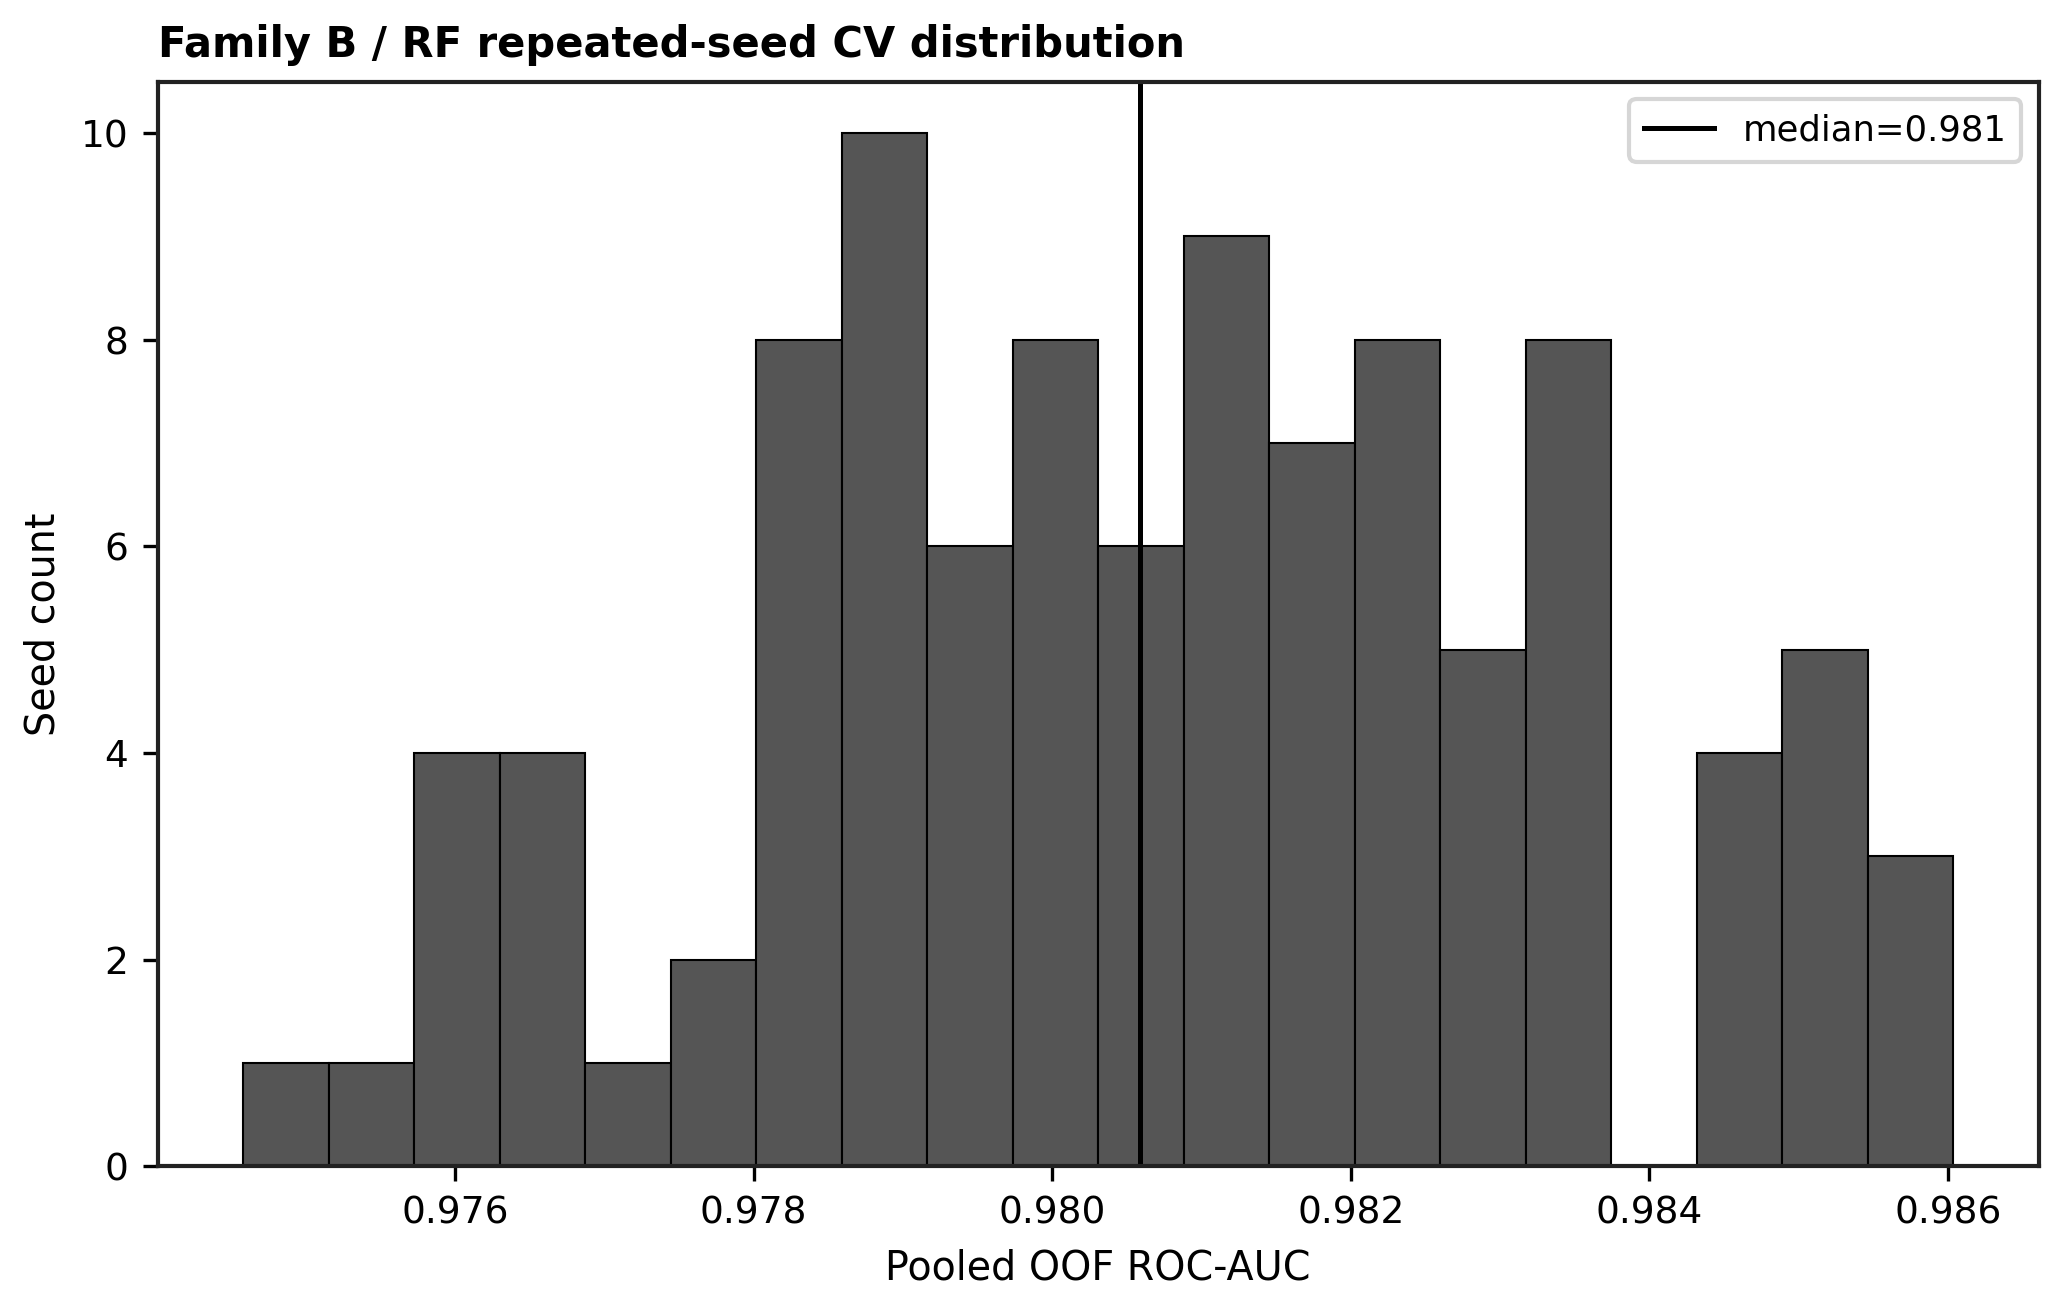
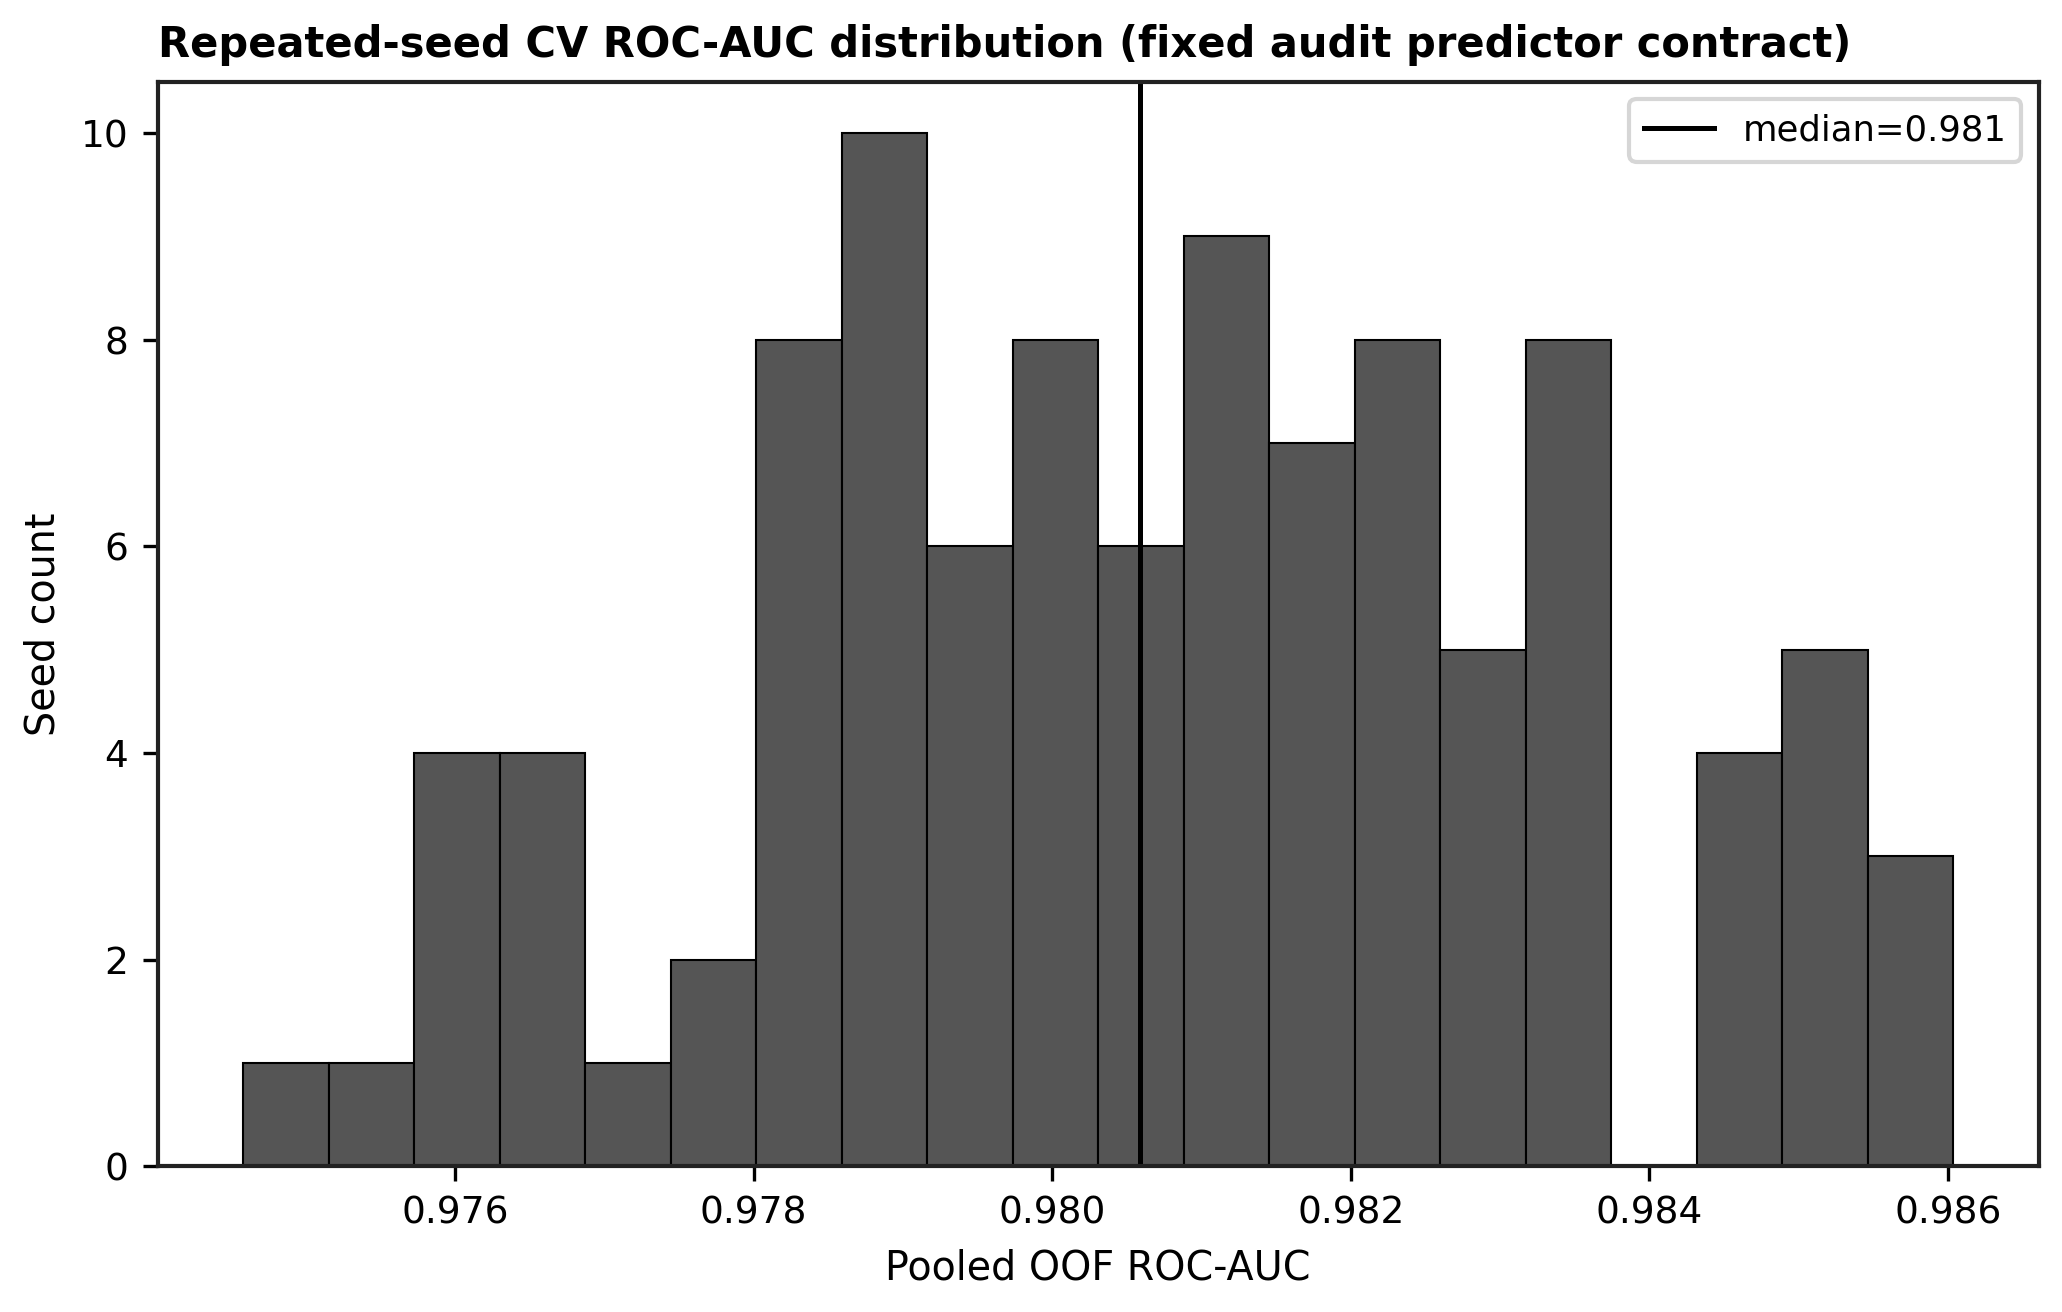
updating v1

Changed region(s): [[0.0931, 0.0, 0.9001, 0.0625]]

diff --git a/outputs/tables/bootstrap_delta.md b/outputs/tables/bootstrap_delta.md
@@ -4,8 +4,8 @@
 
 | predictor_set | family_label | cv_roc_auc_mean_across_seeds | loso_roc_auc_mean_definable_folds | ndc | n_systems | delta_point_estimate | delta_median_bootstrap | delta_p025 | delta_p975 | n_valid_bootstrap_iterations | n_bootstrap_iterations | bootstrap_definability_rate |
 | --- | --- | --- | --- | --- | --- | --- | --- | --- | --- | --- | --- | --- |
-| A_gate_only | Family A gates | 0.614 | 0.833 | 2 | 12 | -0.220 | 0.056 | -0.193 | 0.276 | 4837 | 5000 | 0.967 |
-| B_basic_structural | Family B graph tallies | 0.981 | 0.583 | 2 | 12 | 0.397 | 0.288 | -0.026 | 0.772 | 4843 | 5000 | 0.969 |
-| C_reference_difference | Family C ref-diff | 1.000 | 1.000 | 2 | 12 | 0.000 | 0.000 | 0.000 | 0.000 | 4864 | 5000 | 0.973 |
-| D_combined | Family D combined | 1.000 | 1.000 | 2 | 12 | 0.000 | 0.007 | -0.000 | 0.036 | 4846 | 5000 | 0.969 |
+| A_gate_only | Family A gates (legacy deposit) | 0.614 | 0.833 | 2 | 12 | -0.220 | 0.056 | -0.193 | 0.276 | 4837 | 5000 | 0.967 |
+| B_basic_structural | fixed audit predictor contract | 0.981 | 0.583 | 2 | 12 | 0.397 | 0.288 | -0.026 | 0.772 | 4843 | 5000 | 0.969 |
+| C_reference_difference | Family C ref-diff (legacy deposit) | 1.000 | 1.000 | 2 | 12 | 0.000 | 0.000 | 0.000 | 0.000 | 4864 | 5000 | 0.973 |
+| D_combined | Family D combined (legacy deposit) | 1.000 | 1.000 | 2 | 12 | 0.000 | 0.007 | -0.000 | 0.036 | 4846 | 5000 | 0.969 |
 | prevalence_only | prevalence-only baseline | 0.958 | 0.500 | 2 | 12 | 0.458 | 0.893 | 0.492 | 1.000 | 4851 | 5000 | 0.970 |

diff --git a/outputs/tables/table5_strengthened.md b/outputs/tables/table5_strengthened.md
@@ -4,9 +4,9 @@ Repeated-seed pooled CV (100 seeds); intervals are 2.5–97.5 percentiles across
 
 | predictor_family | classifier | roc_auc_mean | roc_auc_interval | pr_auc_mean | pr_auc_interval | balanced_accuracy_mean | balanced_accuracy_interval | f1_mean | f1_interval | mcc_mean | mcc_interval |
 | --- | --- | --- | --- | --- | --- | --- | --- | --- | --- | --- | --- |
-| Family A gates | random_forest | 0.614 | 0.614 [0.599, 0.629] | 0.177 | 0.177 [0.172, 0.183] | 0.628 | 0.628 [0.628, 0.628] | 0.311 | 0.311 [0.311, 0.311] | 0.217 | 0.217 [0.217, 0.217] |
-| Family B graph tallies | random_forest | 0.981 | 0.981 [0.976, 0.985] | 0.903 | 0.903 [0.886, 0.922] | 0.957 | 0.957 [0.958, 0.958] | 0.799 | 0.799 [0.800, 0.800] | 0.780 | 0.780 [0.782, 0.782] |
-| Family C ref-diff | random_forest | 1.000 | 1.000 [1.000, 1.000] | 1.000 | 1.000 [1.000, 1.000] | 1.000 | 1.000 [1.000, 1.000] | 1.000 | 1.000 [1.000, 1.000] | 1.000 | 1.000 [1.000, 1.000] |
-| Family D combined | random_forest | 1.000 | 1.000 [1.000, 1.000] | 1.000 | 1.000 [1.000, 1.000] | 1.000 | 1.000 [1.000, 1.000] | 1.000 | 1.000 [1.000, 1.000] | 1.000 | 1.000 [1.000, 1.000] |
+| Family A gates (legacy deposit) | random_forest | 0.614 | 0.614 [0.599, 0.629] | 0.177 | 0.177 [0.172, 0.183] | 0.628 | 0.628 [0.628, 0.628] | 0.311 | 0.311 [0.311, 0.311] | 0.217 | 0.217 [0.217, 0.217] |
+| fixed audit predictor contract | random_forest | 0.981 | 0.981 [0.976, 0.985] | 0.903 | 0.903 [0.886, 0.922] | 0.957 | 0.957 [0.958, 0.958] | 0.799 | 0.799 [0.800, 0.800] | 0.780 | 0.780 [0.782, 0.782] |
+| Family C ref-diff (legacy deposit) | random_forest | 1.000 | 1.000 [1.000, 1.000] | 1.000 | 1.000 [1.000, 1.000] | 1.000 | 1.000 [1.000, 1.000] | 1.000 | 1.000 [1.000, 1.000] | 1.000 | 1.000 [1.000, 1.000] |
+| Family D combined (legacy deposit) | random_forest | 1.000 | 1.000 [1.000, 1.000] | 1.000 | 1.000 [1.000, 1.000] | 1.000 | 1.000 [1.000, 1.000] | 1.000 | 1.000 [1.000, 1.000] | 1.000 | 1.000 [1.000, 1.000] |
 | stratified dummy | dummy_stratified | 0.505 | 0.505 [0.430, 0.596] | 0.150 | 0.150 [0.137, 0.191] | 0.505 | 0.505 [0.430, 0.596] | 0.140 | 0.140 [0.000, 0.306] | 0.007 | 0.007 [-0.126, 0.183] |
 | prevalence-only baseline | prevalence_only | 0.958 | 0.958 [0.951, 0.964] | 0.840 | 0.840 [0.829, 0.851] | 0.833 | 0.833 [0.833, 0.833] | 0.800 | 0.800 [0.800, 0.800] | 0.795 | 0.795 [0.795, 0.795] |

diff --git a/outputs/tables/table6_strengthened.md b/outputs/tables/table6_strengthened.md
@@ -4,8 +4,8 @@ LOSO μ = mean of definable per-system fold ROC-AUC (RF-only). Δ bootstrap uses
 
 | predictor_family | classifier | cv_roc_auc_mean | cv_roc_auc_interval | loso_roc_auc | ndc | delta | delta_bootstrap_interval | delta_bootstrap_definability_rate |
 | --- | --- | --- | --- | --- | --- | --- | --- | --- |
-| Family A gates | random_forest | 0.614 | 0.614 [0.599, 0.629] | 0.833 | 2/12 | -0.220 | 0.056 [-0.193, 0.276] | 0.967 |
-| Family B graph tallies | random_forest | 0.981 | 0.981 [0.976, 0.985] | 0.583 | 2/12 | 0.397 | 0.288 [-0.026, 0.772] | 0.969 |
-| Family C ref-diff | random_forest | 1.000 | 1.000 [1.000, 1.000] | 1.000 | 2/12 | 0.000 | 0.000 [0.000, 0.000] | 0.973 |
-| Family D combined | random_forest | 1.000 | 1.000 [1.000, 1.000] | 1.000 | 2/12 | 0.000 | 0.007 [-0.000, 0.036] | 0.969 |
+| Family A gates (legacy deposit) | random_forest | 0.614 | 0.614 [0.599, 0.629] | 0.833 | 2/12 | -0.220 | 0.056 [-0.193, 0.276] | 0.967 |
+| fixed audit predictor contract | random_forest | 0.981 | 0.981 [0.976, 0.985] | 0.583 | 2/12 | 0.397 | 0.288 [-0.026, 0.772] | 0.969 |
+| Family C ref-diff (legacy deposit) | random_forest | 1.000 | 1.000 [1.000, 1.000] | 1.000 | 2/12 | 0.000 | 0.000 [0.000, 0.000] | 0.973 |
+| Family D combined (legacy deposit) | random_forest | 1.000 | 1.000 [1.000, 1.000] | 1.000 | 2/12 | 0.000 | 0.007 [-0.000, 0.036] | 0.969 |
 | prevalence-only baseline | prevalence_only | 0.958 | 0.958 [0.951, 0.964] | 0.500 | 2/12 | 0.458 | 0.893 [0.492, 1.000] | 0.970 |